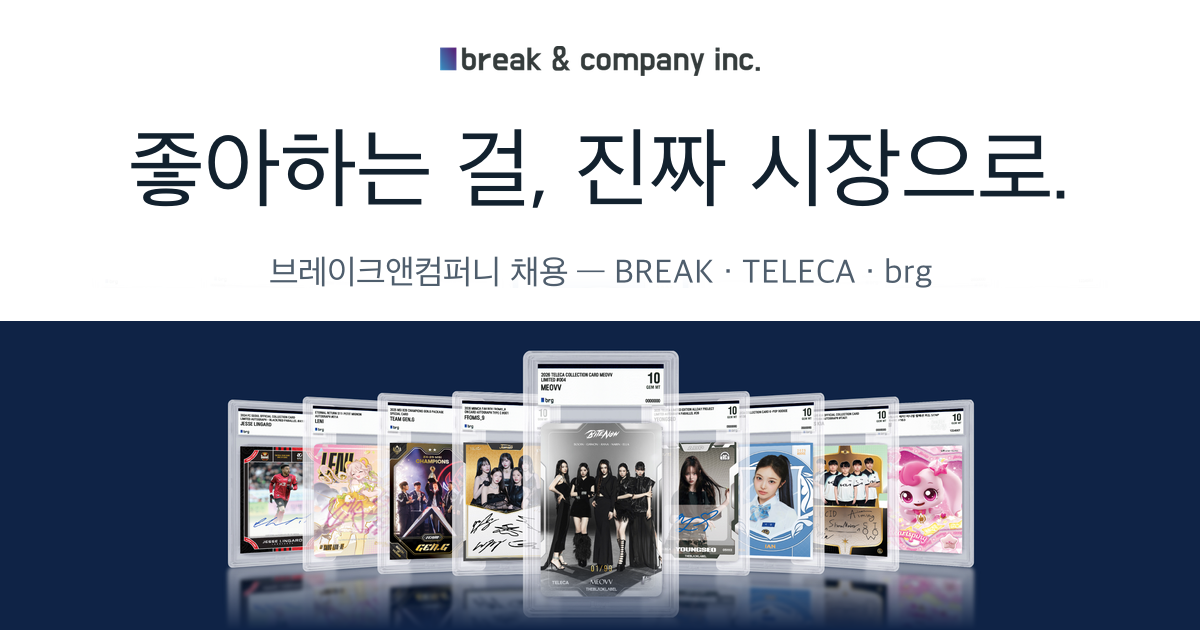
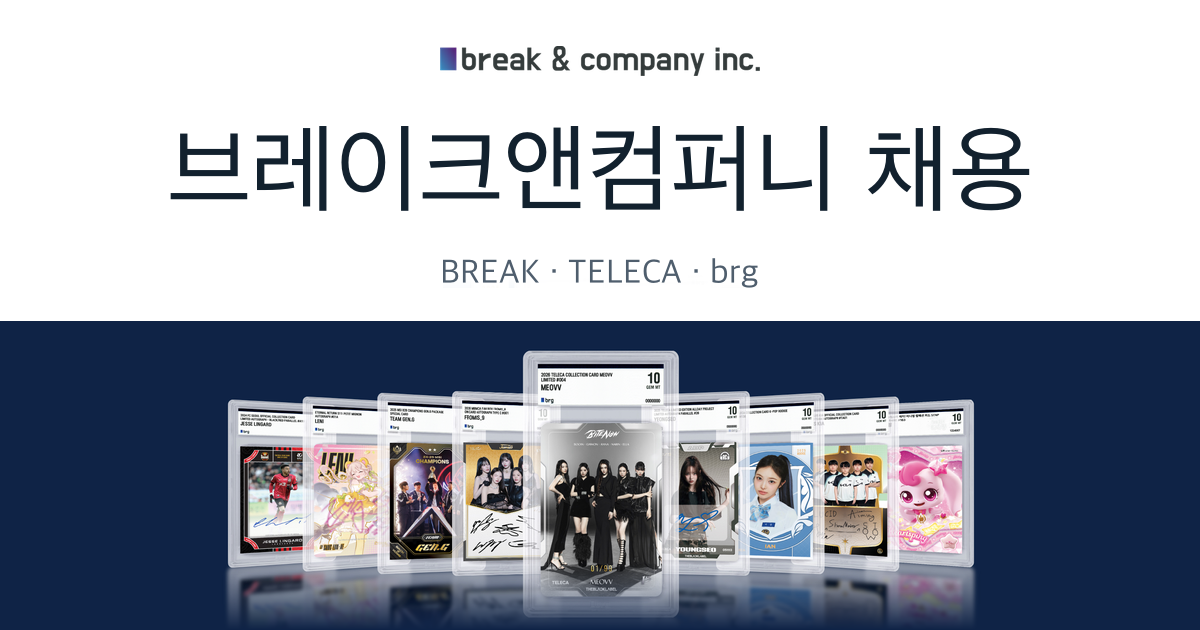
Title the link preview 브레이크앤컴퍼니 채용
Replace the marketing line with the plain title, rendered in the same
face, size and ink as the original (Apple SD Gothic Neo Regular,
#12212E), and drop the now-duplicated prefix from the brand line.

Changed region(s): [[0.0925, 0.181, 0.8942, 0.3317], [0.2158, 0.3921, 0.8017, 0.4524]]

diff --git a/index.html b/index.html
@@ -17,15 +17,15 @@
 <meta property="og:title" content="브레이크앤컴퍼니 채용 — K-POP·IP 트레이딩 카드의 기준을 만드는 팀" />
 <meta property="og:description" content="TELECA(카드 제작)·brg(그레이딩)·BREAK(마켓플레이스)를 만드는 브레이크앤컴퍼니가 함께할 동료를 찾습니다. TCG·트레이딩 카드 전문가(전 직군)를 비롯해 사업기획·세일즈·마케팅·디자인·PM 등 9개 포지션 채용 중." />
 <meta property="og:url" content="https://careers.break.co.kr/" />
-<meta property="og:image" content="https://careers.break.co.kr/og.png?v=20260827" />
-<meta property="og:image:alt" content="brg 그레이딩을 마친 TELECA 컬렉션 카드 — MEOVV, FROMIS_9, GEN.G 등" />
+<meta property="og:image" content="https://careers.break.co.kr/og.png?v=20260827b" />
+<meta property="og:image:alt" content="브레이크앤컴퍼니 채용 — brg 그레이딩을 마친 TELECA 컬렉션 카드" />
 <meta property="og:image:width" content="1200" />
 <meta property="og:image:height" content="630" />
 <meta property="og:locale" content="ko_KR" />
 <meta name="twitter:card" content="summary_large_image" />
 <meta name="twitter:title" content="브레이크앤컴퍼니 채용 — K-POP·IP 트레이딩 카드의 기준을 만드는 팀" />
 <meta name="twitter:description" content="TELECA(카드 제작)·brg(그레이딩)·BREAK(마켓플레이스)를 만드는 브레이크앤컴퍼니가 함께할 동료를 찾습니다. TCG·트레이딩 카드 전문가(전 직군)를 비롯해 사업기획·세일즈·마케팅·디자인·PM 등 9개 포지션 채용 중." />
-<meta name="twitter:image" content="https://careers.break.co.kr/og.png?v=20260827" />
+<meta name="twitter:image" content="https://careers.break.co.kr/og.png?v=20260827b" />
 <link rel="preconnect" href="https://fonts.googleapis.com" />
 <link rel="preconnect" href="https://fonts.gstatic.com" crossorigin />
 <link rel="stylesheet" as="style" crossorigin
